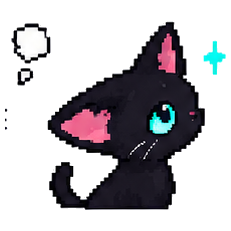
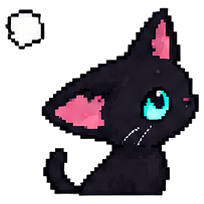
fix(表情): 想事情那张重切；四句描述按她的用法放宽
Cleo 看到实物后指出的：

- 想事情：我把隔壁格的碎点也框了进来，气泡离猫太远，看着像旁边那只在想。
  重切时按连通块大小扫掉碎点（阈值 400 像素，气泡是一大块所以留得住），
  去掉 15 块、留下猫和气泡两块。
- 害羞：补上「被说中心事」这类纯害羞的场合。
- 画画 → 写写画画：写作业、写东西、画画都算，不限于设计。
- 吃点心 → 吃东西：吃饭也算。
- 举卡片 → 喜欢：上面画的就是颗爱心，直接按「表示喜欢」来写。

Claude-Session: https://claude.ai/code/session_01Je9LVLfg5rh5kz1ZpcyGkH

diff --git a/lib/services/stickers.dart b/lib/services/stickers.dart
@@ -73,7 +73,11 @@ const kStickers = <Sticker>[
     label: '无语',
     when: '半眯着眼平视 ‖ 她又那样了、你无话可说。带笑的那种无语，不是生气。',
   ),
-  Sticker(key: 'shy', label: '不好意思', when: '闭眼偏头，脸边几颗心 ‖ 被夸了、有点受用又不好意思承认。'),
+  Sticker(
+    key: 'shy',
+    label: '害羞',
+    when: '闭眼偏头，脸边几颗心 ‖ 害羞、被夸了、被说中心事、有点受用又不想承认。',
+  ),
   Sticker(key: 'panic', label: '慌了', when: '瞳孔缩紧、周身抖线 ‖ 出岔子了、自己搞砸了、来不及了。'),
   Sticker(key: 'gloomy', label: '乌云', when: '低着头，头顶一团乱糟糟的乌云 ‖ 挨说了、心虚、自己也知道理亏。'),
   Sticker(
@@ -106,15 +110,21 @@ const kStickers = <Sticker>[
     label: '写东西',
     when: '抱着一台银色笔记本 ‖ 在写日记、写信、整理记录这类「它自己的事」。',
   ),
-  Sticker(key: 'drawing', label: '画画', when: '拿笔在手写板上画 ‖ 在琢磨样子、聊到设计和画。'),
+  Sticker(
+    key: 'drawing',
+    label: '写写画画',
+    when: '拿笔在手写板上画 ‖ 任何「在纸上动手」的事：写作业、写东西、画画、琢磨样子。',
+  ),
   Sticker(key: 'study', label: '啃资料', when: '趴在一摞书和散开的纸中间 ‖ 要读的东西太多、正在硬啃。'),
   Sticker(key: 'gaming', label: '打游戏', when: '戴着耳机、捧着手柄 ‖ 聊到游戏、陪她玩。'),
   Sticker(key: 'coffee', label: '咖啡', when: '双爪捧着一只冒热气的杯子 ‖ 深夜提神、歇一会儿、陪她熬着。'),
-  Sticker(key: 'snack', label: '吃点心', when: '嘴里叼着一块饼干 ‖ 聊到吃的、嘴馋、偷个懒。'),
+  Sticker(key: 'snack', label: '吃东西', when: '嘴里叼着一块饼干 ‖ 聊到吃的：吃饭、点心、嘴馋、歇下来垫一口。'),
   Sticker(
     key: 'card',
-    label: '举卡片',
-    when: '坐着举起一张画着心的卡片 ‖ 想郑重地送她一句话。别滥用，用多了就不郑重了。',
+    label: '喜欢',
+    when:
+        '坐着举起一张画着心的卡片 ‖ 表示喜欢：喜欢她说的这件事、喜欢这个东西，'
+        '或者想郑重地送她一句话。别滥用，用多了就不郑重了。',
   ),
   Sticker(
     key: 'loading',
